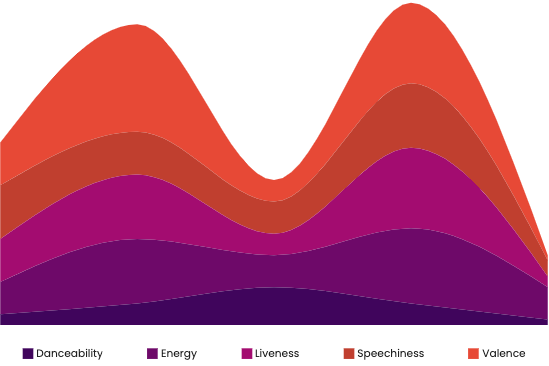
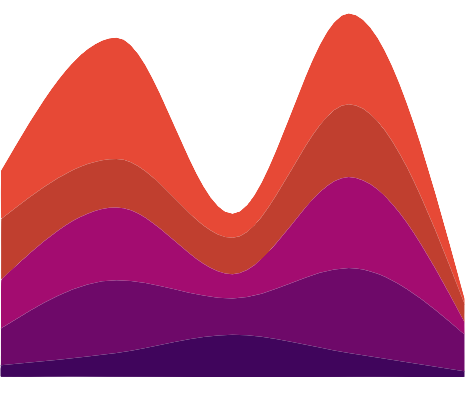
Homepage styling

diff --git a/client/src/components/Home.js b/client/src/components/Home.js
@@ -1,8 +1,12 @@
 import React, { Component } from 'react';
 import { makeStyles } from '@material-ui/core/styles';
 import Grid from '@material-ui/core/Grid';
+import ArrowForward from '@material-ui/icons/ArrowForwardIos';
+import { Link } from "react-router-dom";
 
-import Image from '../assets/img/graph1.png'
+import Image2 from '../assets/img/graph1.png'
+import Image from '../assets/img/graph2.png'
+
 
 class Home extends Component {
   
@@ -12,7 +16,7 @@ class Home extends Component {
       <Grid container >
       <Grid container className="affinity__home--background">
         <Grid item xs className="" />
-        <Grid item xs={6} style={{marginTop: "72px"}}>
+        <Grid item xs={10} md={8} lg={6}>
           <div className="affinity__home--header">
             <h1 class="affinity__home--title"> 
               Discover how your music taste has changed. 
@@ -26,11 +30,11 @@ class Home extends Component {
       </Grid>
       <Grid container>
       <Grid item xs className="" />
-      <Grid item xs={8} style={{marginTop: "72px"}}>
+      <Grid item xs={10} md={8} lg={6}>
         <div className="affinity__home--intro">
           <h2 class="affinity__home--subtitle">Visualize your library.</h2>
-          <Grid container>
-            <Grid item xs={6}>
+          <Grid container className="affinity__home--info">
+            <Grid item xs={10} md={8} lg={6}>
               <div className="affinity__home--cta--items">
                 <div className="affinity__home--cta--item">
                   <h4>See your listening habits</h4>
@@ -39,33 +43,54 @@ class Home extends Component {
                 <div className="affinity__home--cta--item">
                   <h4>Explore New Genres</h4>
                   <p>Lorem ipsum dolor sit amet, consectetur adipiscing elit. Nulla quam velit, vulputate eu pharetra nec, mattis ac neque. </p>
+                  <p>Lorem ipsum dolor sit amet, consectetur adipiscing elit. Nulla quam velit, vulputate eu pharetra nec, mattis ac neque. </p>
                 </div>
               </div>
             </Grid>
-            <Grid item xs={6}>
-              <div className="affinity_home--cta--items right">
-                <div className="affinity_home--cta--item">
+            <Grid item xs={12} md={8} lg={6}>
+              <div className="affinity__home--cta--items right">
+                <div className="affinity__home--cta--item">
                   <div className="affinity__home--image">
                     <img src={Image} alt="A graph displaying songs metrics" />
                   </div>
                 </div>
               </div>
             </Grid>
-            <Grid item xs={6}>
-              <div className="affinity__home--image">
-                <img src={Image} alt="A graph displaying songs metrics" />
+          </Grid>
+          <Grid container className="affinity__home--info">
+          <h2 class="affinity__home--subtitle"></h2>
+            <Grid item xs={12} md={8} lg={6}>
+            <div className="affinity__home--cta--items">
+              <div className="affinity__home--cta--item">
+                <div className="affinity__home--image">
+                  <img src={Image2} alt="A graph displaying songs metrics" />
+                </div>
               </div>
+            </div>
             </Grid>
-            <Grid item xs={6}>
+            <Grid item xs={10} md={8} lg={6}>
               <div className="affinity__home--cta--items right">
                 <div className="affinity__home--cta--item">
                   <h4>See your listening habits</h4>
+                  <p>Lorem ipsum dolor sit amet, consectetur adipiscing elit. Nulla quam velit, vulputate eu pharetra nec, mattis ac neque. </p>
                   <p>Lorem ipsum dolor sit amet, consectetur adipiscing elit. Nulla quam velit, vulputate eu pharetra nec, mattis ac neque. </p>
                 </div>
                 <div className="affinity__home--cta--item">
                   <h4>Explore New Genres</h4>
                   <p>Lorem ipsum dolor sit amet, consectetur adipiscing elit. Nulla quam velit, vulputate eu pharetra nec, mattis ac neque. </p>
                 </div>
+              </div>
+            </Grid>
+          </Grid>
+          <Grid container className="affinity__home--info">
+            <Grid item xs={10} md={12}>
+              <div className="affinity__home--cta">
+                <Link className="link--large" to="/app">
+                  <span>
+                    Let's get started
+                  </span>
+                  <ArrowForward className="colorPrimary fontSizeSmall" />
+                </Link>
               </div>
             </Grid>
           </Grid>

diff --git a/client/src/styles/components/_home.scss b/client/src/styles/components/_home.scss
@@ -8,10 +8,11 @@
 
     &--background {
         min-height: auto;
+        padding-bottom: 36px;
 
         background-image: url('../../assets/img/homepage.png');
         background-size: cover;
-        background-position: 0 0;
+        background-position: 0 50%;
 
         @include from (m) {
             min-height: 626px;
@@ -19,10 +20,10 @@
     }
 
     &--header {
-        margin-top: 24px;
+        margin-top: 124px;
 
         @include from (m) {
-            margin-top: 72px;
+            margin-top: 172px;
         }
 
         p {
@@ -33,7 +34,7 @@
     }
 
     &--intro {
-        margin-top: 12px;
+        margin-top: 72px;
         border-top: 1px solid lightgrey;
     }
 
@@ -42,34 +43,77 @@
         border-width: 50%;
     }
 
-    &--cta--item {
-        margin-bottom: 72px;
-        margin-right: 12px;
-        margin-top: 72px;
+    &--cta {
+        text-align: center;
+        margin-top: 48px;
+        letter-spacing: 6px;
+        color: $grey;
+
+        > a {
+            text-decoration: none;
+            transition: 0.3s ease-in-out;
+
+            > span {
+                font-size: 24px;
+            }
+        }
+    
+    &--item {
+        margin-bottom: 36px;
+
+        @include from(m) {
+            margin-bottom: 72px;
+            margin-right: 12px;
+        }
         // Haha
         &s {
-           margin-top: 24px;
-           margin-bottom: 48px;
-           margin-right: 24px;
+
+           @include from (m) {
+            margin-right: 24px;
+           }
 
            &.right {
-                margin-right: 0;
-                margin-left: 24px;
+                @include from (m) {
+                    margin-right: 0;
+                    margin-left: 24px;
+                }
             }
         }
 
         h4 {
             margin: 0;
             margin-bottom: 12px;
+            padding-left: 8px;
         }
     }
+}
 
     &--image {
         max-width: 100%;
+        text-align: center;
+        background-color: lightgrey;
+        opacity: 0.8;
+        border-radius: 36px;
+        filter: drop-shadow(1px 12px 3px #c3c3c3);
 
         > img {
+            margin: 12px 0;
             object-fit: contain;
             max-width: 100%;
+            filter: blur(2px);
         }
     }
+
+    &--info {
+        margin-bottom: 24px;
+        &:not(:first-of-type) {
+            padding-top: 48px;
+
+            @include from (m) {
+                padding-top: 72px;
+            }
+            border-top: 1px solid lightgrey;
+        }
+    }
+
 }

diff --git a/client/src/styles/components/_nav.scss b/client/src/styles/components/_nav.scss
@@ -1,10 +1,12 @@
 .affinity__nav {
+    z-index: 10;
     width: 100%;
     // Make this a var
     background-color: white;
     min-height: 72px;
     opacity: 0.7;
     position: fixed;
+    transition: 0.5s ease-in-out;
 
     &:hover {
         opacity: 1;
@@ -17,6 +19,15 @@
     }
 
     &--item {
+        display: inline-block;
+        margin-top: 8px;
+        margin-right: 8px;
+        transition: 0.2s ease-in-out;
+
+        @include from(m) {
+            margin-right: 24px;
+            margin-top: 10px;
+        }
 
         &.launch {
             background-color: $orange;
@@ -32,10 +43,6 @@
             }
         }
 
-        display: inline-block;
-        margin-top: 10px;
-        margin-right: 24px;
-
         &:hover {
             transition: 0.2s ease-in-out;
             cursor: pointer;
@@ -44,14 +51,22 @@
     }
 
     &--link {
+        letter-spacing: 2px;
         text-decoration: none;
         text-transform: uppercase;
         color: $grey;
-        letter-spacing: 6px;
+
+        @include from (m) {
+            letter-spacing: 6px;
+        }
     }
 
     &--text {
-        font-size: 18px;
         padding: 12px;
+        font-size: 14px;
+
+        @include from (m) {
+            font-size: 18px;
+        }
     }
 }

diff --git a/client/src/styles/base/_base.scss b/client/src/styles/base/_base.scss
@@ -7,5 +7,50 @@ body {
 	color: #232323;
 	margin: 0;
 	overflow-y:scroll;
-	padding-bottom: 360px;
+	padding-bottom: 65px;
+
+	@include from (m) {
+		padding-bottom: 130px;
+	}
+}
+
+.link--large {
+
+	text-decoration: none;
+
+	> span {
+		font-size: 14px;
+		padding-bottom: 8px;
+		text-transform: uppercase;
+		color: $grey;
+		margin-right: 16px;
+		transition: 0.1s ease-out;
+
+		@include from(m) {
+			font-size: 24px;
+		}
+
+		&:hover {
+			transition: 0.1s ease-out;
+			color: lightgrey;
+		}
+	}
+
+	&:hover {
+		> svg {
+			transition: 0.1s ease-out;
+			transform: translateX(10px);
+			color: $orange;
+		}
+	}
+
+	> svg {
+		color: $grey;
+	}
+
+	padding: 2px;
+}
+
+p {
+	padding-left: 8px;
 }

diff --git a/client/src/components/Nav.js b/client/src/components/Nav.js
@@ -8,7 +8,7 @@ class Nav extends Component {
             <nav className="affinity__nav">
                 <Grid container>
                     <Grid item xs className="" />
-                    <Grid item xs={6}>
+                    <Grid item xs={10} md={8} lg={6}>
                         <div className="affinity__nav--items">
                             <div className="affinity__nav--item launch">
                                 <Link className="affinity__nav--link" to="/app">

diff --git a/client/src/components/Affinity.js b/client/src/components/Affinity.js
@@ -60,7 +60,7 @@ componentDidMount() {
 
   render() {
     if (!this.state.loggedIn) {
-      return <Redirect to="/auth/login" />
+      return <Redirect to="/login" />
     }
     if (!this.state.items || !this.state.audio_features) {
       return <div className="App">Waiting...</div>

diff --git a/client/src/styles/base/_fonts.scss b/client/src/styles/base/_fonts.scss
@@ -6,15 +6,23 @@ body {
 }
 h1,
 h2 {
-	font-size: 48px;
+	font-size: 36px;
 	max-width: 620px;
+
+	@include from (m) {
+		font-size: 48px;
+	}
 }
 
 h3,
 h4,
 h5,
 h6 {
-	font-size: 28px;
+	font-size: 24px;
+
+	@include from (m) {
+		font-size: 36px;
+	}
 }
 
 p,

diff --git a/client/src/styles/_main.scss b/client/src/styles/_main.scss
@@ -1,7 +1,8 @@
+@import './base/mixins';
 @import './base/variables';
 @import './base/base';
 @import './base/fonts';
-@import './base/mixins';
+
 
 @import './components/affinity';
 @import './components/home';
